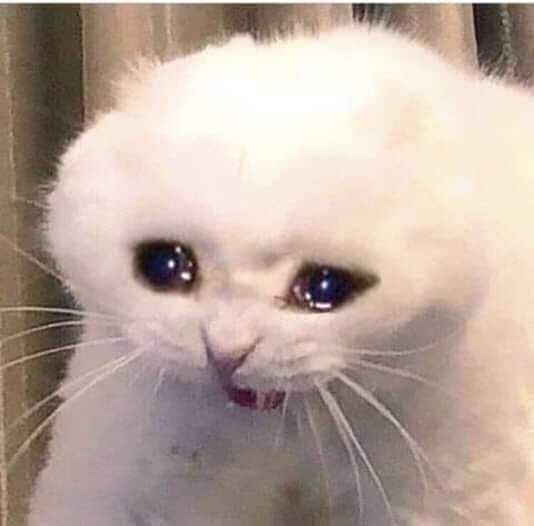
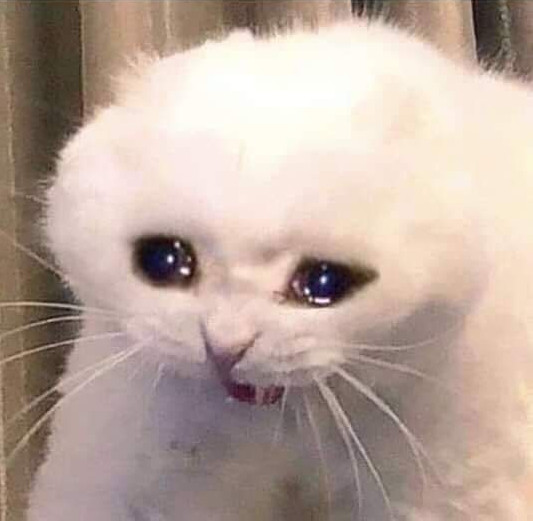
updatepost

diff --git a/404.html b/404.html
@@ -7,4 +7,5 @@ permalink: 404.html
 <div class="page">
   <h1 class="page-title">404: Página no encontrada</h1>
   <p class="lead"> 😔 Lo siento, pero no se encuentra la direccion, regresa al <a href="{{ site.baseurl }}/">inicio</a>.</p>
+    <img src="/assets/images/gatitotriste.jpg"/>
 </div>

diff --git a/_posts/2023-08-05-Review-Coolermaster212argb.md b/_posts/2023-08-05-Review-Coolermaster212argb.md
@@ -1,0 +1,160 @@
+---
+layout: post
+title: "Review CoolerMaster 212 ARGB"
+author: "Luis"
+tags: Reviews
+---
+![Descripcion de la imagen]({{site.baseurl}}/assets/images/coolermastervideo.png)
+
+<p style="text-align: justify;">
+Hace ya un par de meses que tengo el disipador <a href="https://www.coolermaster.com/la/es-la/catalog/coolers/cpu-air-coolers/hyper-212-argb/">Cooler Master Hyper 212 ARGB</a> y pues quisiera hacer una pequeña review ademas de mencionar algunas opiniones personales sobre el mismo. 
+Cabe resaltar que si desea ver las pruebas y el paso a paso de como fue que realice esta review o alguna cuestion de su metodologia tiene el <a href="https://www.youtube.com/watch?v=A3v-s3rdCjA">video</a> donde se muestra claramente todo lo que aquí yace resumido. Una vez dicho esto ya podemos entrar en materia. 
+En cuanto a las especificaciones del producto tenemos lo siguiente:
+</p>
+
+| <!-- -->      | <!-- -->        | 
+|:-------------:|:---------------:|
+| Compatibilidad de Sockets   | LGA1700, LGA1200, LGA1151, LGA1150, LGA1155, LGA1156, AM5, AM4 | 
+| Dimensiones con ventilador  |  	120 x 80.5 x 157 mm | 
+| Peso con ventilador         | 610g      | 
+| Material del contacto       | Cobre y aluminio      | 
+| Material del disipador      | Aluminio      | 
+| Ventilador incluido       | SickleFlow 120 ARGB      |
+| Dimensiones del ventilador  | 120 x 120 x 25 mm      |
+| Ruido  | 27 dBA (Max)     |
+| Velocidad del ventilador  | 650-1800 RPM ± 5%  |
+| Sistema de rotacion  | Rifle     |
+| Iluminacion  | ARGB en el fan     |
+
+
+<p style="text-align: justify;">
+En el apartado del soporte o compatibilidad, tenemos un espectro completo en lo que se refiere a los sockets más actuales. 
+Para el caso del AM5 y el LGA 1700 se supone que en los próximos lotes debería ya incluir el bracket y en dado caso que no venga puede solicitarlo a su tienda <a href="https://www.coolermaster.com/la/es-la/find-a-store-near-you/">Cooler Master</a> más cercana. 
+En mi caso no vino con el soporte para estos últimos, pero en internet ya esta disponible el manual de instalación para ambas plataformas. Lo que ya sugiere de primera mano que estan en camino. 
+</p>
+<p style="text-align: justify;">
+Referente a este punto debo comentar con una cierta obligación el hecho que, según mis cálculos basados en los videos de <a href="https://www.youtube.com/watch?v=Ii2MXLjJtM4">GeekaWhat</a> existe la posibilidad de usar este disipador en lo que vendría a ser las versiones 
+no-X de los Ryzen 7000 es bastante alta teniendo en cuenta que son procesadores pensandos para un tdp de 65w. De hecho en los multiples ensambles que hay en su canal, puede darse cuenta que usa el disipador <a href="https://es.deepcool.com/products/Cooling/cpuaircoolers/AK400-Performance-CPU-Cooler-1700-AM5/2021/15353.shtml">DeepCool AK400</a>
+un disipador que a razón de las caracteristicas presentadas dentro de su propia pagina oficial es similar a este Hyper 212. Una vez dicho esto ahora si, vamos con lo siguiente.
+</p>
+
+<br>
+
+## *Fotos del paquete*
+
+![Descripcion de la imagen]({{site.baseurl}}/assets/images/photo_2023-06-19_19-44-50.jpg)
+![Descripcion de la imagen]({{site.baseurl}}/assets/images/photo_2023-06-19_19-44-55.jpg)
+![Descripcion de la imagen]({{site.baseurl}}/assets/images/photo_2023-06-19_19-44-58.jpg)
+![Descripcion de la imagen]({{site.baseurl}}/assets/images/photo_2023-06-19_19-45-00.jpg)
+![Descripcion de la imagen]({{site.baseurl}}/assets/images/photo_2023-06-19_19-44-48.jpg)
+
+Tenemos un controlador ARGB magnetizado que en mi caso lo he puesto dentro del gabinete ya que, siendo honestos, soy de los que tiene el RGB totalmente apagado y por ende no le doy mucho uso.
+![Descripcion de la imagen]({{site.baseurl}}/assets/images/photo_2023-07-30_20-13-57.jpg) 
+
+4 heatpipes de cobre  
+![Descripcion de la imagen]({{site.baseurl}}/assets/images/Screenshot 2023-07-30 at 20-22-50 Hyper 212 ARGB.png)
+
+Ventilador SickleFlow 120mm ARGB  
+![Descripcion de la imagen]({{site.baseurl}}/assets/images/photo_2023-06-19_19-44-42.jpg)  
+
+<br>
+
+
+## *Pruebas de rendimiento* 
+
+El equipo de pruebas es mi ordenador personal que consta de:
+
+| <!-- -->      | <!-- -->        | 
+|:-------------:|:---------------:|
+| Procesador   | AMD Ryzen 5 3600   |
+| Motherboard    | ASUS B350M-A   |
+| Ram    | 2 X8GB Corsair Vengeance LPX @3200Mhz   |
+| Disco Duro   | PNY SSD 128GB (Os) - 1TB WD Blue (Games)|
+| Tarjeta Gráfica | MSI Radeon RX 480 Gaming X   |
+| Fuente de Alimentación | CoolerMaster Lite 500w  |
+| Gabinete | Thermaltake S100  |
+
+<p style="text-align: justify;">
+Antes de iniciar, tengo que aclarar algunas cuestiones tratadas en mi breve analisis para una mayor falicidad en la comprension. En primer momento mostrar la configuracion de la CPU en la bios. 
+<img src="/assets/images/photo_2023-08-05_16-50-54.jpg" />
+<img src="/assets/images/photo_2023-08-05_16-50-55.jpg" />
+En general se jugara con la configuracion del "core performance boost" y el PBO. Para el caso del <u><i>AMD Wraith Cooler without turbo frecuency</i></u> estaran en disable/desactivado y es donde el procesador llega a una frecuencia maxima de 3600mhz en todos sus nucleos. Esto corresponde a la frecuencia base del procesador la cual por cierto, no es la que viene por defecto a penas usted instala una cpu Ryzen.
+Por el contrario tenemos el <u><i>AMD Wraith Cooler with turbo frecuency</i></u> donde el "core performance boost" y el PBO estan en modo auto/activado con una frecuencia maxima de 4200mhz para todos sus nucleos. Corresponde por cierto a la configuracion de fabrica que viene al instalar cualquier cpu
+en una mother AM4. Ya para el ultimo, <u><i>CoolerMaster Hyper 212 ARGB with turbo frecuency</i></u> es la misma configuracion expuesta en breves pero con el cambio del disipador.
+</p>
+Ahora si vamos con las pruebas realizadas iniciando con los tres test de Cinebench y sus respectivos puntajes: 
+### Resultados
+![Descripcion de la imagen]({{site.baseurl}}/assets/images/grafica1.png)
+
+*Configuracion 1 = Azul celeste = AMD Wraith Cooler without turbo frecuency*  <br>
+*Configuracion 2 = Naranja = AMD Wraith Cooler with turbo frecuency* <br>
+*Configuracion 3 = Morado = CoolerMaster Hyper 212 ARGB with turbo frecuency* <br>
+
+<p style="text-align: justify;">
+Para el caso de <b>Cinebench R15</b> partiendo de la configuracion 1, hay una diferencia del <b>+13,07% de rendimiento</b> a favor de la configuracion 2 y a su vez tenemos <b>+3,92% de rendimiento</b> a favor de la configuracion 3. La diferencia entre la configuracion 1 y la 3 es de <b>+17,51% de rendimiento</b>.<br> <br>
+Para el caso de <b>Cinebench R20</b> partiendo de la configuracion 1, hay una diferencia del <b>+6,79% de rendimiento</b> a favor de la configuracion 2 y a su vez tenemos <b>+4,11% de rendimiento</b> a favor de la configuracion 3. La diferencia entre la configuracion 1 y la 3 es de <b>+11,18% de rendimiento</b>.<br> <br>
+Para el caso de <b>Cinebench R23</b> partiendo de la configuracion 1, hay una diferencia del <b>+4,9% de rendimiento</b> a favor de la configuracion 2 y a su vez tenemos <b>+5,8% de rendimiento</b> a favor de la configuracion 3. La diferencia entre la configuracion 1 y la 3 es de <b>+10,99% de rendimiento</b>.<br> <br>
+</p>
+
+![Descripcion de la imagen]({{site.baseurl}}/assets/images/grafica2.png)
+
+<p style="text-align: justify;">
+Para las temperaturas en el package del procesador en el caso de <b>Cinebench R15</b> partiendo de la configuracion 1, hay una diferencia del <b>+40% de temperatura</b> a favor de la configuracion 2 y a su vez tenemos <b>-24% de temperatura</b> a favor de la configuracion 3. La diferencia entre la configuracion 1 y la 3 es de <b>+6,87% de temperatura</b>.<br>
+En las temperaturas de los nucleos del procesador en el caso de <b>Cinebench R15</b> partiendo de la configuracion 1, hay una diferencia del <b>+40% de temperatura</b> a favor de la configuracion 2 y a su vez tenemos <b>-25% de temperatura</b> a favor de la configuracion 3. La diferencia entre la configuracion 1 y la 3 es de <b>+6,7% de temperatura</b>.<br>
+</p>
+
+![Descripcion de la imagen]({{site.baseurl}}/assets/images/grafica3.png)
+<p style="text-align: justify;">
+Las temperaturas en el package del procesador en el caso de <b>Cinebench R20</b> partiendo de la configuracion 1, hay una diferencia del <b>+29.8% de temperatura</b> a favor de la configuracion 2 y a su vez tenemos <b>-29.1% de temperatura</b> a favor de la configuracion 3. La diferencia entre la configuracion 1 y la 3 es de <b>+0,54% de temperatura</b>.<br>
+Las temperaturas en los nucleos del procesador en el caso de <b>Cinebench R20</b> partiendo de la configuracion 1, hay una diferencia del <b>+29.6% de temperatura</b> a favor de la configuracion 2 y a su vez tenemos <b>-29.2% de temperatura</b> a favor de la configuracion 3. La diferencia entre la configuracion 1 y la 3 es de <b>+0,27% de temperatura</b>.<br>
+</p>
+
+![Descripcion de la imagen]({{site.baseurl}}/assets/images/grafica4.png)
+<p style="text-align: justify;">
+Cuando hablamos de las temperaturas en el package del procesador en el caso de <b>Cinebench R23</b> partiendo de la configuracion 1, hay una diferencia del <b>+20,4% de temperatura</b> a favor de la configuracion 2 y a su vez tenemos <b>-19,5% de temperatura</b> a favor de la configuracion 3. La diferencia entre la configuracion 1 y la 3 es de <b>-3% de temperatura</b>.<br>
+En el caso de las temperaturas en los nucleos del procesador en el caso de <b>Cinebench R23</b> partiendo de la configuracion 1, hay una diferencia del <b>+20,2% de temperatura</b> a favor de la configuracion 2 y a su vez tenemos <b>-19,7% de temperatura</b> a favor de la configuracion 3. La diferencia entre la configuracion 1 y la 3 es de <b>-3,5% de temperatura</b>.<br>
+</p>
+
+
+![Descripcion de la imagen]({{site.baseurl}}/assets/images/grafica5.png)
+<p style="text-align: justify;">
+Para el caso del benchmark de <b>CPUZ</b> partiendo de la configuracion 1, hay una diferencia del <b>+10,2% de rendimiento</b> a favor de la configuracion 2 y a su vez tenemos <b>+2,7% de rendimiento</b> a favor de la configuracion 3. La diferencia entre la configuracion 1 y la 3 es de <b>+13,2% de rendimiento</b>.<br>
+</p>
+
+![Descripcion de la imagen]({{site.baseurl}}/assets/images/grafica6.png)
+<p style="text-align: justify;">
+Para el caso de las temperaturas en el package del procesador en el caso del benchmark de <b>CPUZ</b> partiendo de la configuracion 1, hay una diferencia del <b>+44,3% de temperatura</b> a favor de la configuracion 2 y a su vez tenemos <b>-24,1% de temperatura</b> a favor de la configuracion 3. La diferencia entre la configuracion 1 y la 3 es de <b>+9,6% de temperatura</b>.<br>
+En el caso de las temperaturas en los cores del procesador en el caso del benchmark de <b>CPUZ</b> partiendo de la configuracion 1, hay una diferencia del <b>+47,5% de temperatura</b> a favor de la configuracion 2 y a su vez tenemos <b>-24,3% de temperatura</b> a favor de la configuracion 3. La diferencia entre la configuracion 1 y la 3 es de <b>+11,8% de temperatura</b>.<br>
+</p>
+
+![Descripcion de la imagen]({{site.baseurl}}/assets/images/grafica7.png)
+<p style="text-align: justify;">
+Para el caso de las temperaturas en el package del procesador en el caso de la prueba de <b>PowerMax con AVX duarante 1 minuto</b> partiendo de la configuracion 1, hay una diferencia del <b>+10,8% de temperatura</b> a favor de la configuracion 2 y a su vez tenemos <b>-26,1% de temperatura</b> a favor de la configuracion 3. La diferencia entre la configuracion 1 y la 3 es de <b>-18,1% de temperatura</b>.<br>
+Para el caso de las temperaturas en los cores del procesador en el caso de la prueba de <b>PowerMax con AVX duarante 1 minuto</b> partiendo de la configuracion 1, hay una diferencia del <b>+11,1% de temperatura</b> a favor de la configuracion 2 y a su vez tenemos <b>-26,9% de temperatura</b> a favor de la configuracion 3. La diferencia entre la configuracion 1 y la 3 es de <b>-18,8% de temperatura</b>.<br>
+</p>
+
+![Descripcion de la imagen]({{site.baseurl}}/assets/images/grafica8.png)
+<p style="text-align: justify;">
+Para el caso de las temperaturas en el package del procesador en el caso de la prueba de <b>PowerMax con SEE duarante 1 minuto</b> partiendo de la configuracion 1, hay una diferencia del <b>+21,1% de temperatura</b> a favor de la configuracion 2 y a su vez tenemos <b>-23,8% de temperatura</b> a favor de la configuracion 3. La diferencia entre la configuracion 1 y la 3 es de <b>-7,7% de temperatura</b>.<br>
+Para el caso de las temperaturas en los cores del procesador en el caso de la prueba de <b>PowerMax con SEE duarante 1 minuto</b> partiendo de la configuracion 1, hay una diferencia del <b>+21,1% de temperatura</b> a favor de la configuracion 2 y a su vez tenemos <b>-24,2% de temperatura</b> a favor de la configuracion 3. La diferencia entre la configuracion 1 y la 3 es de <b>-8,1% de temperatura</b>.<br>
+</p>
+
+![Descripcion de la imagen]({{site.baseurl}}/assets/images/grafica9.png)
+![Descripcion de la imagen]({{site.baseurl}}/assets/images/grafica10.png)
+<p style="text-align: justify;">
+En los juegos, refiriendonos a <b>Doom Eternal</b> partiendo de la configuracion 1, hay una diferencia del <b>+3,1% de FPS</b> a favor de la configuracion 2 y a su vez tenemos <b>+3,0% de FPS</b> a favor de la configuracion 3. La diferencia entre la configuracion 1 y la 3 es de <b>+6,2% de FPS</b>.<br>
+Para el caso de las temperaturas en el <b>Doom Eternal</b> partiendo de la configuracion 1, hay una diferencia del <b>+38,5% de temperatura</b> a favor de la configuracion 2 y a su vez tenemos <b>-29,1% de temperatura</b> a favor de la configuracion 3. La diferencia entre la configuracion 1 y la 3 es de <b>-1,7% de temperatura</b>.<br>
+</p>
+
+![Descripcion de la imagen]({{site.baseurl}}/assets/images/grafica11.png)
+![Descripcion de la imagen]({{site.baseurl}}/assets/images/grafica12.png)
+<p style="text-align: justify;">
+En los juegos, refiriendonos a <b>Battlefield V</b> partiendo de la configuracion 1, hay una diferencia del <b>+3,3% de FPS</b> a favor de la configuracion 2 y a su vez tenemos <b>+4,9%de FPS</b> a favor de la configuracion 3. La diferencia entre la configuracion 1 y la 3 es de <b>+8,4% de FPS</b>.<br>
+Para el caso de las temperaturas en el <b>Battlefield V</b> partiendo de la configuracion 1, hay una diferencia del <b>+31,7% de temperatura</b> a favor de la configuracion 2 y a su vez tenemos <b>-25,3% de temperatura</b> a favor de la configuracion 3. La diferencia entre la configuracion 1 y la 3 es de <b>-1,5% de temperatura</b>.<br>
+</p>
+
+## Palabras finales sobre el disipador
+
+Este disipador tiene una gran capacidad de lograr resolver y afrontar las temperaturas del Ryzen 5 3600 en todo su esplendor. Permitiendo liberar todo su potencial en lo que respecta al uso de aplicaciones de productividad y juegos. Ofrece lo justo y necesario por el precio
+al que se logra conseguir en una tienda de computacion. Su altura se puede regular para que no haga estorbo con las memorias RAM (en mi caso no he tenido ningun problema con las corsair). EL ruido que hace el ventilador es bajo y es configurable por supuesto por software 
+de terceros o dentro de la bios. Lo puedo recomendar.  

diff --git a/about.md b/about.md
@@ -3,34 +3,8 @@ layout: page
 title: Acerca de
 ---
 
-<!---
-<p class="message">
-  Hey there! This page is included as an example. Feel free to customize it for your own use upon downloading. Carry on!
-</p>
+Este es un espacio con una pequeña cantidad de bytes, cuya única finalidad es escribir algunas cosas que pienso y que suceden a mi alrededor. Lo hago más que todo con el fin de poder profundizar algunas opiniones sobre temas que me preocupan y de los cuales trabajo, ya sea por mi carrera o por interés personal. Espero, a propósito, siendo el tortuoso camino de la Filosofía y la tecnología durante estos tiempos postmodernos, los lugares donde pueda escribir y ayudar un poco.  
+Otro motivo para la creación de este blog ha sido el deseo de ver disponibles algunos artículos que están por la red, pero que solo son accesibles mediante un pago y que necesito compartir con cercanos, siéntase libre de leerlos. 
+También agradecer a [andrewhwanpark](https://github.com/andrewhwanpark/dark-poole) por el diseño abierto de este tema, un diseño minimalista y elegante que la verdad me ha ahorrado mucho trabajo. 	
 
-In the novel, *The Strange Case of Dr. Jekyll and Mr. Hyde*, Mr. Poole is Dr. Jekyll's virtuous and loyal butler. Similarly, Poole is an upstanding and effective butler that helps you build Jekyll themes. It's made by [@mdo](https://twitter.com/mdo).
-
-There are currently two themes built on Poole:
-
-- [Hyde](https://hyde.getpoole.com)
-- [Lanyon](https://lanyon.getpoole.com)
-
-Learn more and contribute on [GitHub](https://github.com/poole).
-
-## Setup
-
-Some fun facts about the setup of this project include:
-
-- Built for [Jekyll](https://jekyllrb.com)
-- Developed on GitHub and hosted for free on [GitHub Pages](https://pages.github.com)
-- Coded with [Atom](https://atom.io), an amazing open source code editor
-
-Have questions or suggestions? Feel free to [open an issue on GitHub](https://github.com/poole/poole/issues/new) or [ask me on Twitter](https://twitter.com/mdo).
-
-Thanks for reading!
-
--->
-
-Este es un espacio con una pequeña cantidad de bytes donde escribiré algunas cosas que pienso y que suceden a mi alrededor. Lo hago mas que todo con el fin de poder profundizar algunas opiniones sobre temas que me preocupan y de los cuales trabajo, ya sea por mi carrera o por interes personal. Espero a proposito, siendo el tortuoso camino de la Filosofia y la tecnologia durante estos tiempos postmodernos, los lugares donde pueda escribir y ayudar un poco.  
-Otro motivo para la creacion de este blog ha sido el deseo de ver disponibles algunos articulos que estan por la red pero que solo son accesibles mediante un pago. Yo tengo algunos y me gustaria compartirlos aqui, sientase libre de leerlos. 
-Tambien agredecer a [andrewhwanpark](https://github.com/andrewhwanpark/dark-poole) por el diseño abierto de este tema que la verdad me ha ahorrado mucho trabajo. 	
+Gracias por leer.

diff --git a/_posts/2023-07-02-Twitter-demanda-organización-rastrea-discurso-odio.md b/_posts/2023-07-02-Twitter-demanda-organización-rastrea-discurso-odio.md
@@ -39,6 +39,7 @@ Una versión de este artículo aparece impresa en  , Sección B, Página 3 de la
 
 Por Sheera Frenkel y Ryan Mac - 31 de julio de 2023
 
-(Este articulo esta [publicado](https://www.nytimes.com/2023/07/31/technology/twitter-x-center-for-countering-digital-hate.html) originalmente en ingles, lo he traducido para mayor facilidad uwu)
+(Este articulo esta [publicado](https://www.nytimes.com/2023/07/31/technology/twitter-x-center-for-countering-digital-hate.html) originalmente en ingles, lo he traducido para mayor facilidad.
+Este es el [informe](https://counterhate.com/research/toxic-twitter-anti-lgbtq/) del Center for Countering Digital Hate)
 
 

diff --git a/archive.md b/archive.md
@@ -5,7 +5,7 @@ title: Archivos
 
 # Archivo
 
-📚 Aqui todas las publicaciones por fecha y año. 
+📚 Aquí están todas las publicaciones por fecha y año. 
 
 {% assign postsByYearMonth = site.posts | group_by_exp: "post", "post.date | date: '%B %Y'" %}
 {% for yearMonth in postsByYearMonth %}
